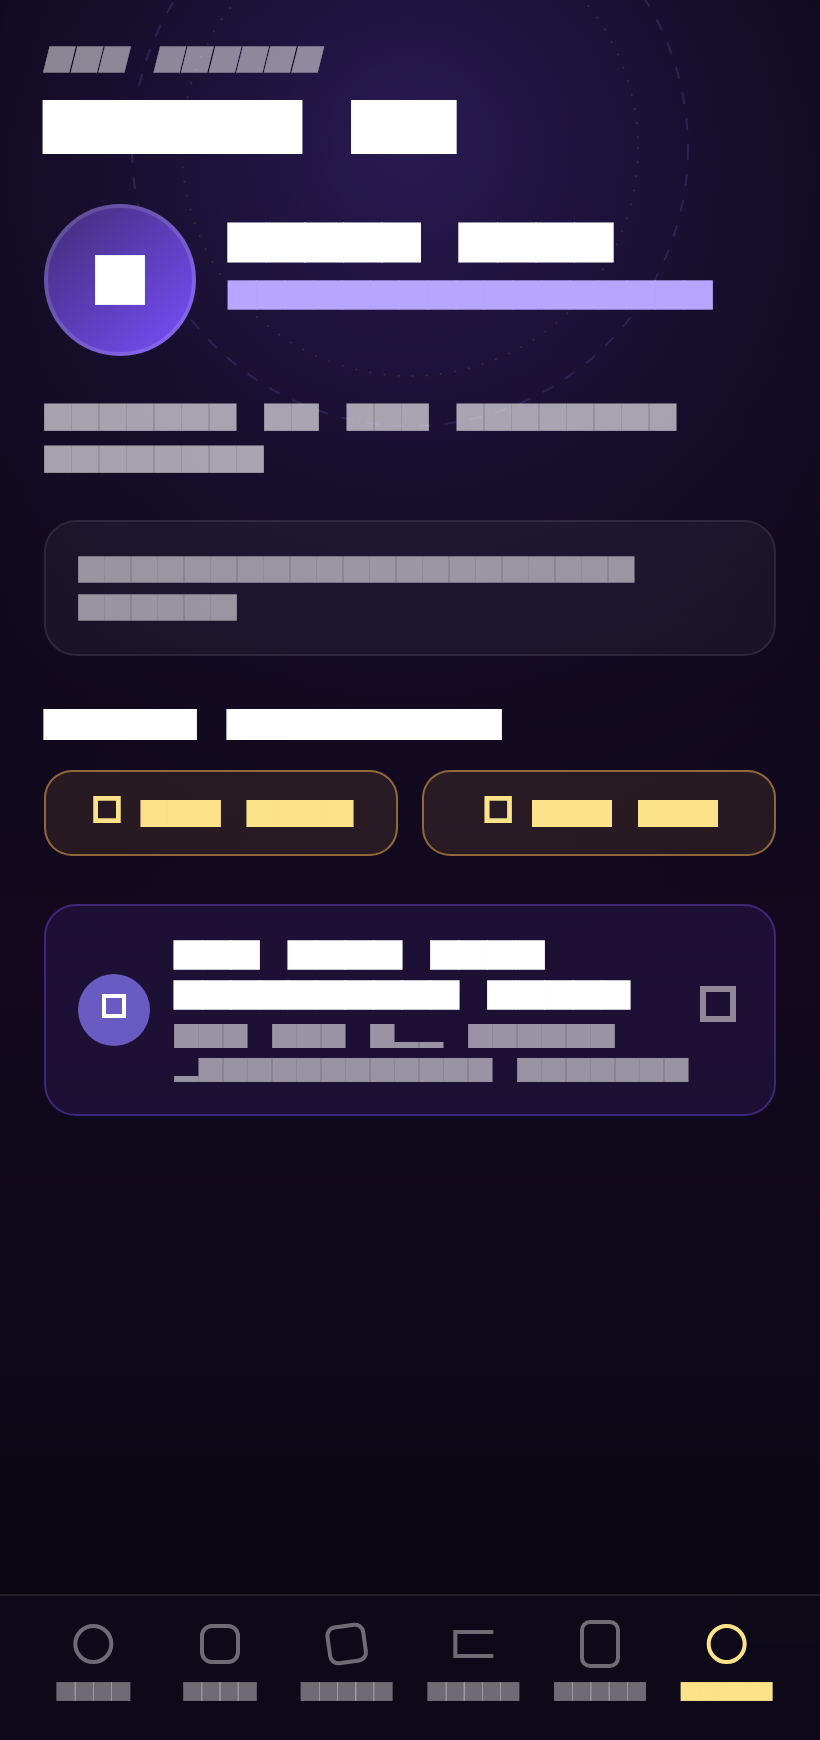
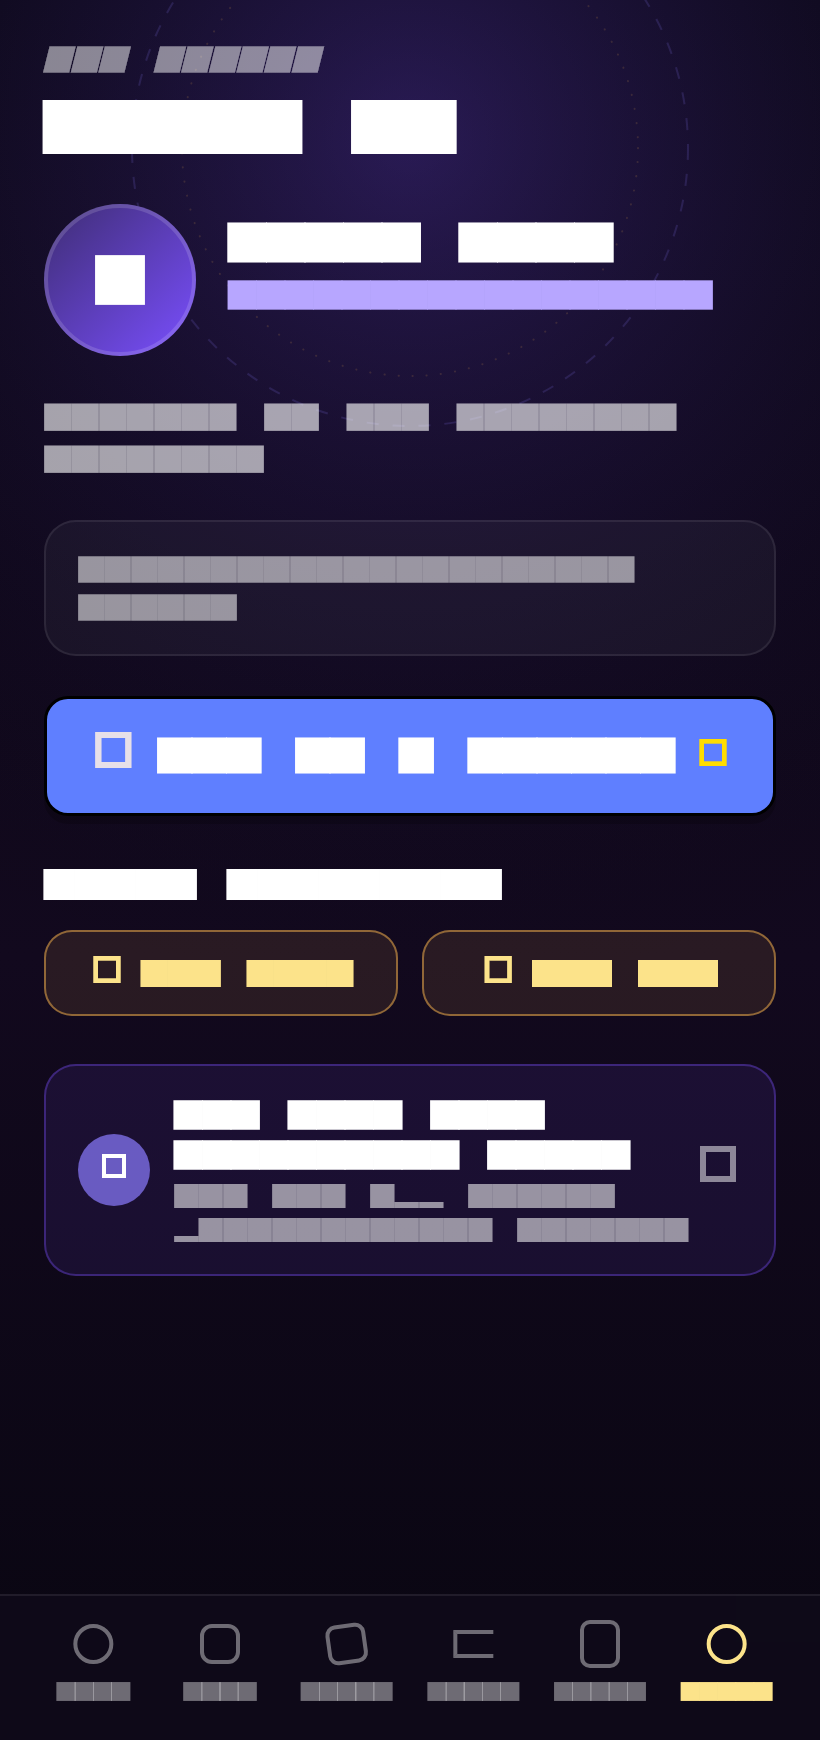
feat(about): add Buy Me a Coffee button

diff --git a/lib/screens/about_me_screen.dart b/lib/screens/about_me_screen.dart
@@ -1,5 +1,6 @@
 import 'package:flutter/material.dart';
 import 'package:flutter_riverpod/flutter_riverpod.dart';
+import 'package:url_launcher/url_launcher.dart';
 
 import 'package:theuniversedecides/services/github_profile_service.dart';
 import 'package:theuniversedecides/l10n/generated/app_localizations.dart';
@@ -19,6 +20,14 @@ class AboutMeScreen extends ConsumerStatefulWidget {
 }
 
 class _AboutMeScreenState extends ConsumerState<AboutMeScreen> {
+  static final _donationUri = Uri.parse(
+    'https://www.buymeacoffee.com/vitorhugo1207',
+  );
+
+  Future<void> _openDonationPage() async {
+    await launchUrl(_donationUri, mode: LaunchMode.externalApplication);
+  }
+
   Future<void> _requestTile(QuickAccessAction action) async {
     final messenger = ScaffoldMessenger.of(context);
     final l10n = AppLocalizations.of(context)!;
@@ -80,6 +89,11 @@ class _AboutMeScreenState extends ConsumerState<AboutMeScreen> {
               ),
             ),
           ),
+          const SizedBox(height: 20),
+          _DonationButton(
+            label: l10n.aboutDonationButton,
+            onPressed: _openDonationPage,
+          ),
           const SizedBox(height: 24),
           Text(
             l10n.aboutShortcutsTitle,
@@ -116,6 +130,59 @@ class _AboutMeScreenState extends ConsumerState<AboutMeScreen> {
             onTap: () => showHowRandomnessSheet(context),
           ),
         ],
+      ),
+    );
+  }
+}
+
+class _DonationButton extends StatelessWidget {
+  const _DonationButton({required this.label, required this.onPressed});
+
+  final String label;
+  final VoidCallback onPressed;
+
+  @override
+  Widget build(BuildContext context) {
+    return SizedBox(
+      width: double.infinity,
+      height: 60,
+      child: DecoratedBox(
+        decoration: BoxDecoration(
+          color: const Color(0xFF5F7FFF),
+          borderRadius: BorderRadius.circular(12),
+          border: Border.all(color: Colors.black, width: 1.5),
+          boxShadow: const [
+            BoxShadow(
+              color: Color(0x33000000),
+              blurRadius: 10,
+              offset: Offset(0, 4),
+            ),
+          ],
+        ),
+        child: Material(
+          color: Colors.transparent,
+          child: InkWell(
+            onTap: onPressed,
+            borderRadius: BorderRadius.circular(12),
+            child: Row(
+              mainAxisAlignment: MainAxisAlignment.center,
+              children: [
+                const Text('☕', style: TextStyle(fontSize: 24)),
+                const SizedBox(width: 10),
+                Text(
+                  label,
+                  style: const TextStyle(
+                    color: Colors.white,
+                    fontSize: 17,
+                    fontWeight: FontWeight.w800,
+                  ),
+                ),
+                const SizedBox(width: 10),
+                const Icon(Icons.favorite, color: Color(0xFFFFDD00), size: 18),
+              ],
+            ),
+          ),
+        ),
       ),
     );
   }

diff --git a/test/widget_test.dart b/test/widget_test.dart
@@ -256,6 +256,7 @@ void main() {
     expect(find.text('@vitorhugo-dotnet'), findsOneWidget);
     expect(find.text('Add coin'), findsOneWidget);
     expect(find.text('Add d20'), findsOneWidget);
+    expect(find.text('Buy me a coffee'), findsOneWidget);
     expect(find.byIcon(Icons.monetization_on), findsOneWidget);
     expect(find.byIcon(Icons.casino), findsOneWidget);
     expect(githubService.usernames, ['vitorhugo-dotnet']);